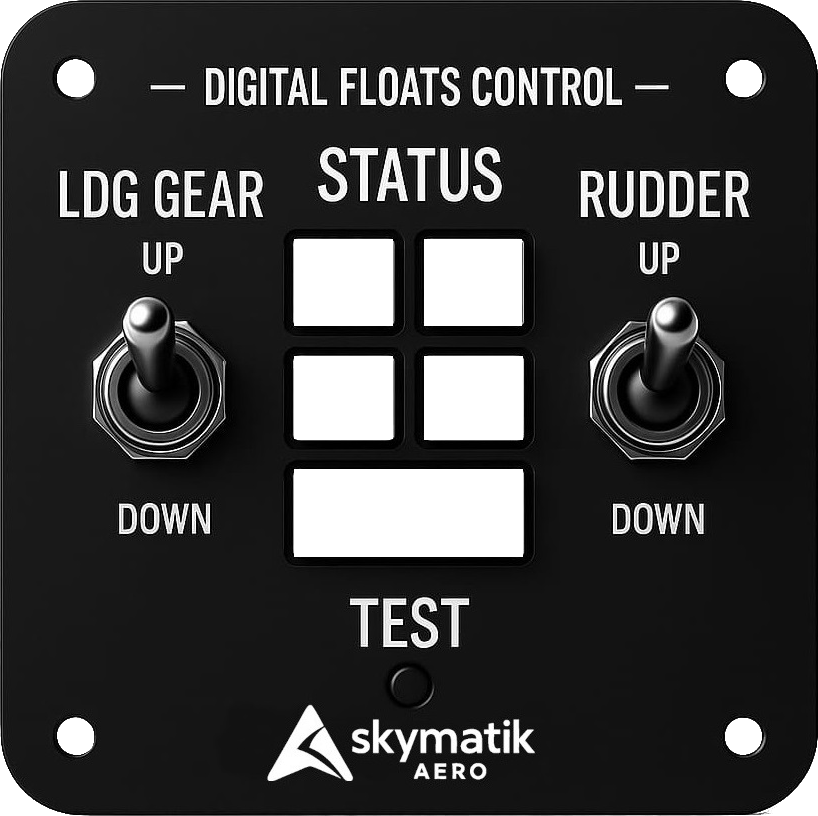
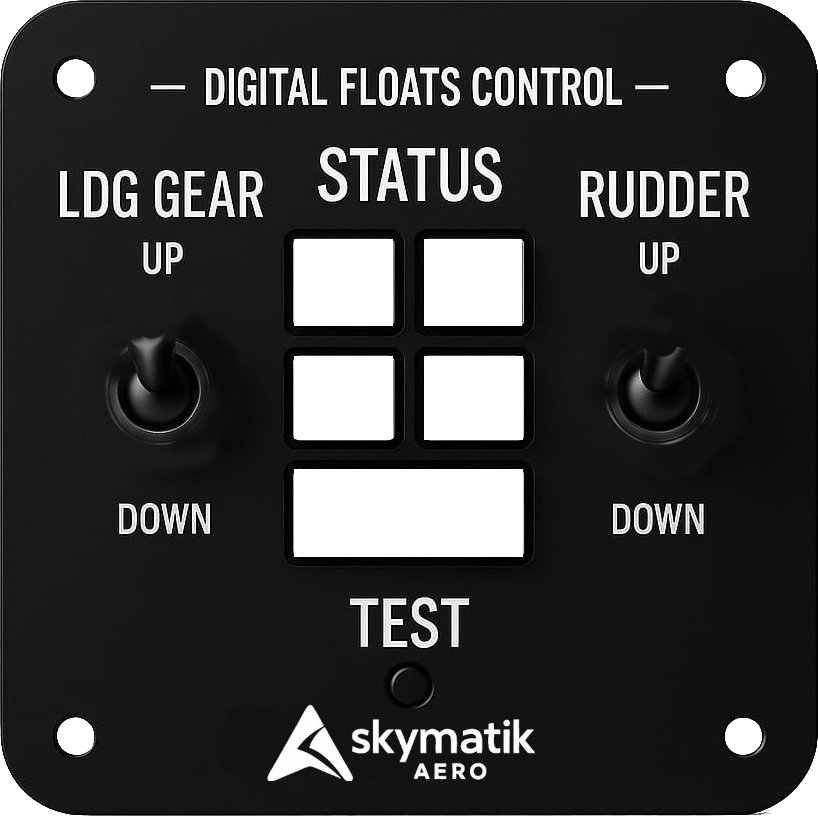
updated panel backgorund

Changed region(s): [[0.7029, 0.3676, 0.8863, 0.5821], [0.0917, 0.3676, 0.2751, 0.5821]]

diff --git a/pc_app/widgets/status_panel_composite_widget.py b/pc_app/widgets/status_panel_composite_widget.py
@@ -9,6 +9,7 @@ class StatusPanelCompositeWidget(tk.Canvas):
     def __init__(self, parent, layout_json_path, edit_mode=False):
         self.layout_json_path = layout_json_path
         self.edit_mode = edit_mode
+        self.draw_grid = False
         # Load layout from JSON
         with open(layout_json_path, "r") as f:
             layout = json.load(f)
@@ -30,33 +31,35 @@ class StatusPanelCompositeWidget(tk.Canvas):
             scale = info.get("scale", 1.0)
             self.positions[key] = pos
             self.scales[key] = scale
-            if key == "ROCKER" and "image_up" in info and "image_down" in info:
+            if "image_up" in info and "image_down" in info:
                 img_up = Image.open(info["image_up"]).convert("RGBA") if os.path.exists(info["image_up"]) else None
                 img_down = Image.open(info["image_down"]).convert("RGBA") if os.path.exists(info["image_down"]) else None
                 self.indicator_imgs[key] = {"up": img_up, "down": img_down}
-            else:
+            elif "image" in info:
                 img_path = info["image"]
                 if os.path.exists(img_path):
                     img = Image.open(img_path).convert("RGBA")
                     self.indicator_imgs[key] = img
                 else:
                     self.indicator_imgs[key] = None
+            else:
+                self.indicator_imgs[key] = None
 
         self.indicator_state = {k: False for k in self.positions}
         self.composited_img = None
         self.tk_img = None
         self.image_id = None
         
+        # Always initialize drag variables
+        self.dragging = False
+        self.current_key = None
+        self.start_x = 0
+        self.start_y = 0
+
         # Add save button only in edit mode
         if self.edit_mode:
             self.save_button = tk.Button(parent, text="Save Positions", command=self.save_positions)
             self.save_button.pack(side=tk.BOTTOM, pady=5)
-
-            # Drag and drop variables
-            self.dragging = False
-            self.current_key = None
-            self.start_x = 0
-            self.start_y = 0
 
             # Bind mouse events only in edit mode
             self.bind("<Button-1>", self.start_drag)
@@ -71,15 +74,15 @@ class StatusPanelCompositeWidget(tk.Canvas):
     def start_drag(self, event):
         # Find which indicator was clicked
         for key, pos in self.positions.items():
-            img = None
             scale = self.scales.get(key, 1.0)
-            if key == "ROCKER" and isinstance(self.indicator_imgs[key], dict):
+            img = None
+            if isinstance(self.indicator_imgs[key], dict):
+                # Rocker: use current state to get correct image
                 state = self.indicator_state[key]
                 img = self.indicator_imgs[key]["up"] if state else self.indicator_imgs[key]["down"]
             else:
                 img = self.indicator_imgs[key]
             if img:
-                # Apply scale to image size
                 w, h = int(img.width * scale), int(img.height * scale)
                 x, y = pos
                 if (x <= event.x <= x + w and 
@@ -141,10 +144,21 @@ class StatusPanelCompositeWidget(tk.Canvas):
 
     def draw_panel(self):
         base = self.panel_img.copy()
+        # Draw grid in edit mode
+        if self.edit_mode and self.draw_grid:
+            import PIL.ImageDraw
+            draw = PIL.ImageDraw.Draw(base)
+            grid_spacing = 50
+            w, h = base.size
+            for x in range(0, w, grid_spacing):
+                draw.line([(x, 0), (x, h)], fill=(180, 180, 180, 80), width=1)
+            for y in range(0, h, grid_spacing):
+                draw.line([(0, y), (w, y)], fill=(180, 180, 180, 80), width=1)
         for key, state in self.indicator_state.items():
             x, y = self.positions[key]
             scale = self.scales.get(key, 1.0)
-            if key == "ROCKER" and isinstance(self.indicator_imgs[key], dict):
+            if isinstance(self.indicator_imgs[key], dict):
+                # Rocker: always draw, use up or down image based on state
                 img = self.indicator_imgs[key]["up"] if state else self.indicator_imgs[key]["down"]
                 if img:
                     w, h = int(img.width * scale), int(img.height * scale)
@@ -178,7 +192,7 @@ class StatusPanelCompositeWidget(tk.Canvas):
         cycle = itertools.cycle(keys)
         def step():
             for k in keys:
-                if k == "ROCKER":
+                if isinstance(self.indicator_imgs[k], dict):
                     # Toggle rocker state each time
                     self.indicator_state[k] = not self.indicator_state[k]
                 else:
